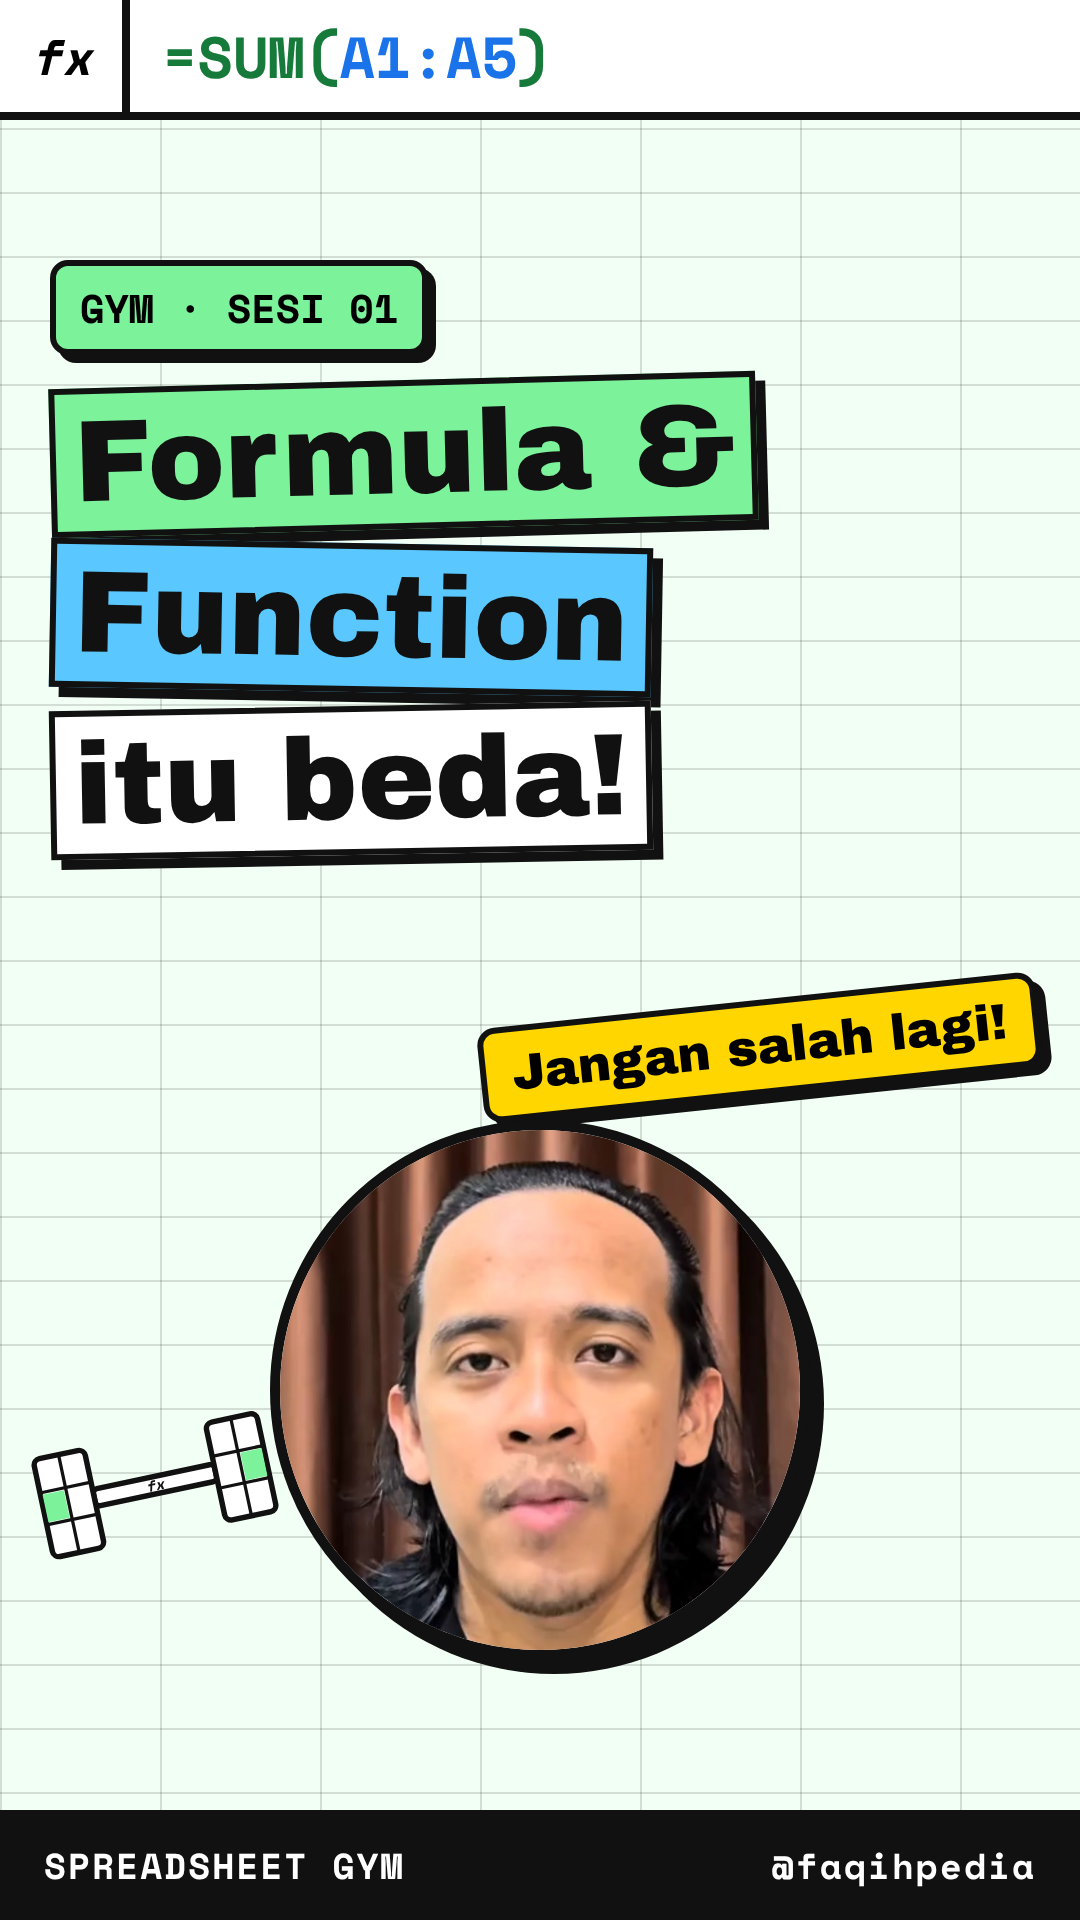
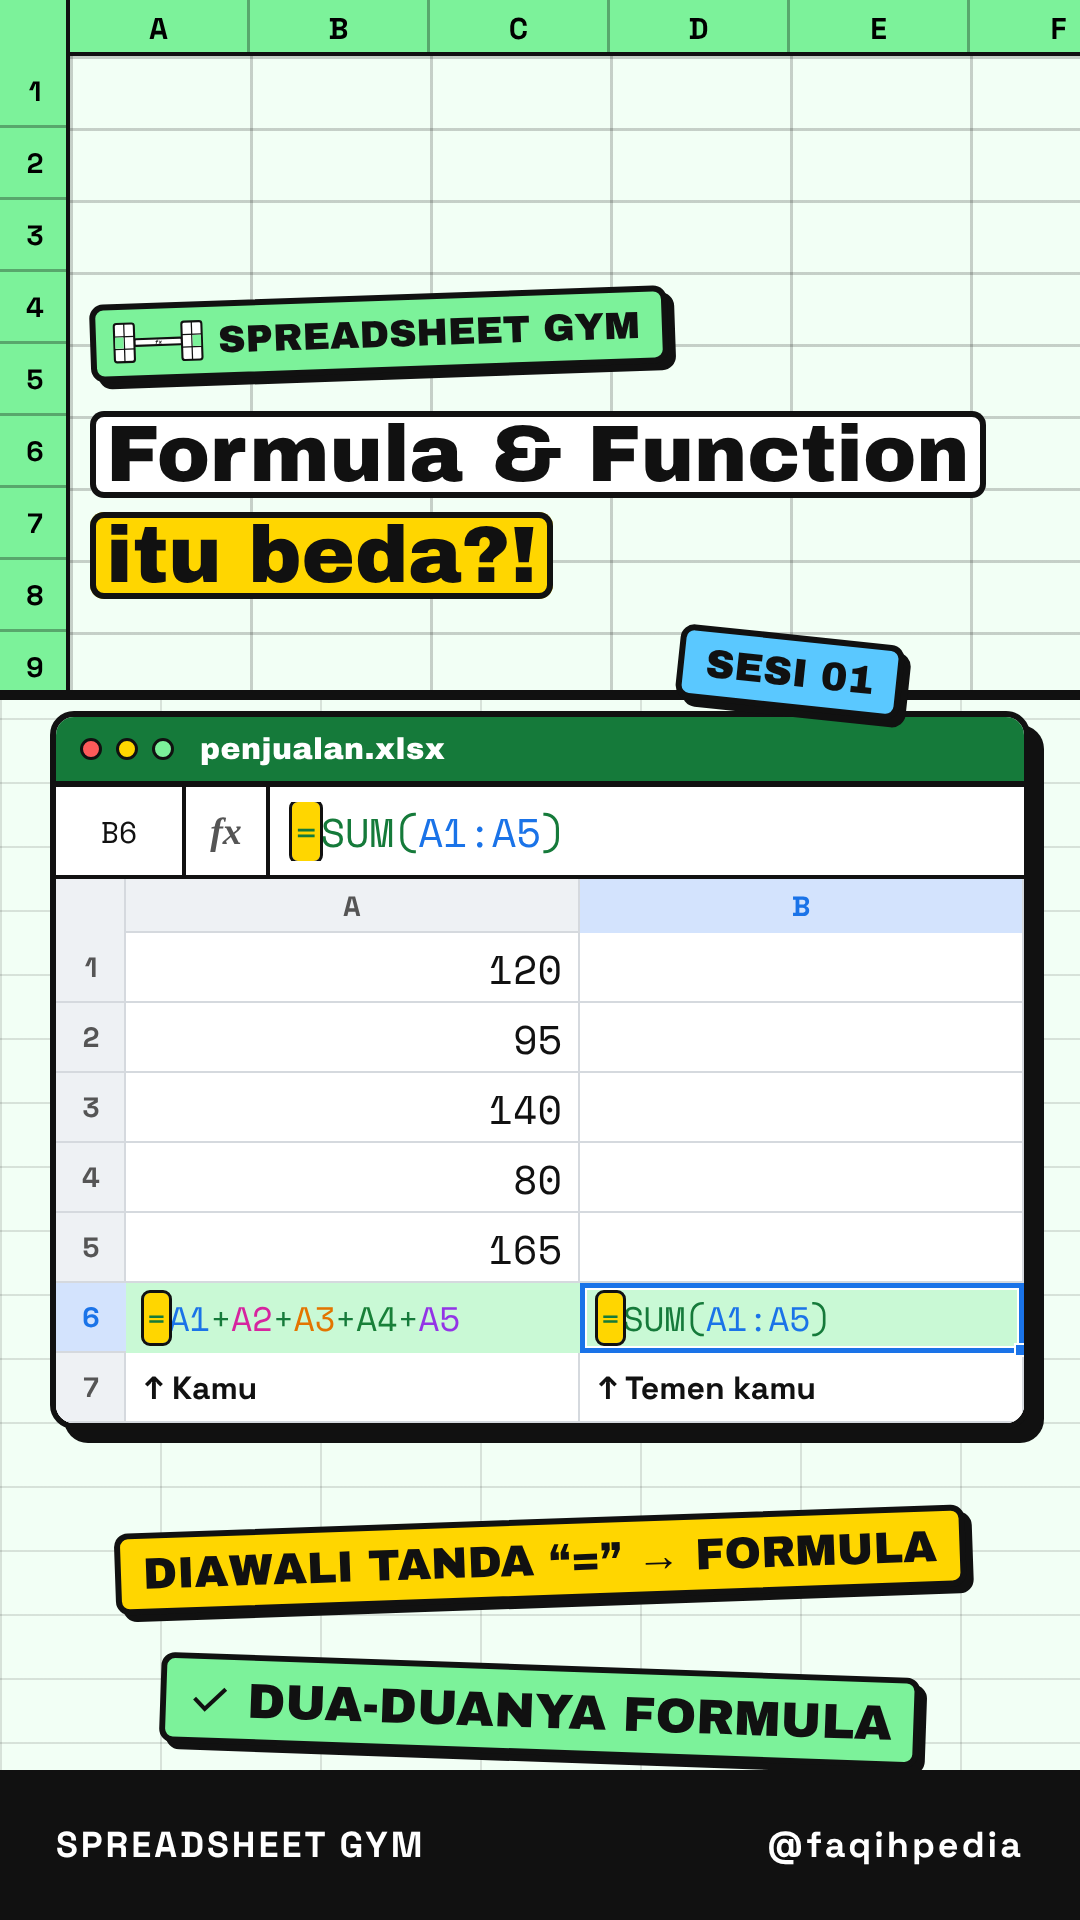
Spreadsheet Gym: thumbnail in the TRIMS cover standard, no face
Claude-Session: https://claude.ai/code/session_018xRo3ZmD22FHxxpmWKTbyx

diff --git a/spreadsheet-gym-formula-vs-function/src/Thumbnail.tsx b/spreadsheet-gym-formula-vs-function/src/Thumbnail.tsx
@@ -1,66 +1,97 @@
 import React from 'react';
 import { AbsoluteFill, Img, staticFile } from 'remotion';
+import { At, Box, Sticker } from './components';
 import { Barbell } from './scenes';
-import { Fx } from './Sheet';
-import { BORDER, C, EPISODE_LABEL, HEAD, MAIN_FORMULA, MONO, shadow } from './theme';
+import { BORDER, BODY, C, EPISODE_LABEL, HEAD } from './theme';
 
 /*
- * Reels / TikTok cover, laid out like the Spreadsheet Gym cover in
- * brand/segment-kit.html: formula bar on top, segment chip top-left, a title
- * of at most 6 words in the top third, a tilted sticker, the face centered
- * low, and the black @faqihpedia strip. Title and face stay inside the
- * centered 3:4 area (y 240–1680) that the Instagram profile grid shows.
+ * Cover, same rules as the TRIMS covers (trims-eps2-claude/src/Thumbnail.tsx
+ * on claude/awesome-hawking-b9e871), in the Spreadsheet Gym identity:
+ *  - segment motif on top (a spreadsheet: column letters, row numbers, cell grid),
+ *    segment label + logo top-left tilted -2°, a short title (5 words)
+ *  - a real frame of the video across the bottom half; no face in this segment,
+ *    so it's the practice sheet at "Jadi, dua-duanya formula!" (31.6 s)
+ *  - a tilted card on the panel edge (episode number, plate blue)
+ *  - black series strip at the bottom
  */
-export const Thumbnail: React.FC = () => (
-  <AbsoluteFill style={{ background: C.bg, overflow: 'hidden' }}>
-    {/* cell grid */}
-    <AbsoluteFill
-      style={{
-        backgroundImage: 'linear-gradient(90deg, rgba(17,17,17,.14) 2px, transparent 2px), linear-gradient(rgba(17,17,17,.14) 2px, transparent 2px)',
-        backgroundSize: '160px 64px',
-      }}
-    />
-    {/* formula bar */}
-    <div style={{ position: 'absolute', left: 0, top: 0, width: 1080, height: 120, background: C.white, borderBottom: `${BORDER + 2}px solid ${C.ink}`, display: 'flex' }}>
-      <div style={{ width: 130, display: 'flex', alignItems: 'center', justifyContent: 'center', borderRight: `${BORDER + 2}px solid ${C.ink}`, fontFamily: MONO, fontStyle: 'italic', fontWeight: 700, fontSize: 50 }}>fx</div>
-      <div style={{ display: 'flex', alignItems: 'center', padding: '0 32px', fontFamily: MONO, fontWeight: 700, fontSize: 58 }}>
-        <Fx text={MAIN_FORMULA} />
-      </div>
-    </div>
-    {/* segment chip */}
-    <div style={{ position: 'absolute', left: 50, top: 260, background: C.green, border: `${BORDER}px solid ${C.ink}`, borderRadius: 18, boxShadow: shadow(8), padding: '12px 24px', fontFamily: MONO, fontWeight: 700, fontSize: 40 }}>
-      GYM · {EPISODE_LABEL}
-    </div>
-    {/* title: max 6 words */}
-    <div style={{ position: 'absolute', left: 50, right: 50, top: 380, fontFamily: HEAD, fontSize: 116, lineHeight: 1.18, color: C.ink }}>
-      {['Formula &', 'Function', 'itu beda!'].map((l, i) => (
-        <div key={l}>
-          <span
-            style={{
-              background: i === 0 ? C.green : i === 1 ? C.blue : C.white,
-              border: `${BORDER}px solid ${C.ink}`, boxShadow: shadow(10), padding: '0 18px', display: 'inline-block',
-              transform: `rotate(${[-1.5, 1, -1][i]}deg)`, marginBottom: 14,
-            }}
-          >
-            {l}
-          </span>
+const SAFE = { left: 60, right: 940, top: 285, bottom: 1500 };
+
+const mark: React.CSSProperties = {
+  background: C.white, boxShadow: `inset 0 0 0 6px ${C.ink}`, borderRadius: 14, padding: '0 16px',
+  boxDecorationBreak: 'clone', WebkitBoxDecorationBreak: 'clone',
+};
+
+const PHOTO_TOP = 690;
+const FRAME_Y = 430; // first row of the video frame shown at the panel top
+const STRIP = 150;
+
+/** spreadsheet motif: header row with column letters, row numbers, cell grid */
+const SheetMotif: React.FC = () => {
+  const colW = 180;
+  const rowH = 72;
+  const headH = 56;
+  const numW = 70;
+  return (
+    <AbsoluteFill>
+      <AbsoluteFill
+        style={{
+          background: C.bg,
+          backgroundImage: 'linear-gradient(90deg, rgba(17,17,17,.2) 3px, transparent 3px), linear-gradient(rgba(17,17,17,.2) 3px, transparent 3px)',
+          backgroundSize: `${colW}px ${rowH}px`,
+          backgroundPosition: `${numW}px ${headH}px`,
+        }}
+      />
+      <div style={{ position: 'absolute', left: 0, top: 0, right: 0, height: headH, background: C.green, borderBottom: `4px solid ${C.ink}` }} />
+      {'ABCDEF'.split('').map((l, i) => (
+        <div key={l} style={{ position: 'absolute', left: numW + i * colW, top: 0, width: colW, height: headH, display: 'flex', alignItems: 'center', justifyContent: 'center', fontFamily: BODY, fontWeight: 700, fontSize: 30, borderRight: `3px solid ${C.ink}55` }}>
+          {l}
         </div>
       ))}
+      <div style={{ position: 'absolute', left: 0, top: 0, bottom: 0, width: numW, background: C.green, borderRight: `4px solid ${C.ink}` }} />
+      {Array.from({ length: 9 }, (_, r) => (
+        <div key={r} style={{ position: 'absolute', left: 0, top: headH + r * rowH, width: numW, height: rowH, display: 'flex', alignItems: 'center', justifyContent: 'center', fontFamily: BODY, fontWeight: 700, fontSize: 28, borderBottom: `3px solid ${C.ink}55` }}>
+          {r + 1}
+        </div>
+      ))}
+    </AbsoluteFill>
+  );
+};
+
+export const Thumbnail: React.FC = () => (
+  <AbsoluteFill style={{ background: C.bg, overflow: 'hidden' }}>
+    <SheetMotif />
+
+    {/* real video frame, bleeding off the bottom */}
+    <div style={{ position: 'absolute', left: 0, right: 0, top: PHOTO_TOP, bottom: 0, overflow: 'hidden', borderTop: `${BORDER + 4}px solid ${C.ink}`, background: C.bg }}>
+      <Img src={staticFile('thumb-frame.png')} style={{ position: 'absolute', left: 0, top: -FRAME_Y, width: 1080, height: 1920 }} />
     </div>
-    {/* tilted sticker */}
-    <div style={{ position: 'absolute', right: 40, top: 1000, transform: 'rotate(-6deg)', background: C.yellow, border: `${BORDER}px solid ${C.ink}`, borderRadius: 18, boxShadow: shadow(9), padding: '14px 26px', fontFamily: HEAD, fontSize: 50 }}>
-      Jangan salah lagi!
+
+    {/* segment label, top-left */}
+    <div style={{ position: 'absolute', left: SAFE.left + 30, top: SAFE.top + 10, transform: 'rotate(-2deg)' }}>
+      <Box bg={C.green} pad="8px 22px 8px 14px" radius={14} sh={7} style={{ display: 'flex', alignItems: 'center', gap: 12, fontFamily: HEAD, fontSize: 38, whiteSpace: 'nowrap' }}>
+        <Barbell w={96} />
+        SPREADSHEET GYM
+      </Box>
     </div>
-    {/* face */}
-    <div style={{ position: 'absolute', left: 540 - 270, top: 1120, width: 540, height: 540, borderRadius: '50%', border: `${BORDER + 4}px solid ${C.ink}`, boxShadow: shadow(14), overflow: 'hidden', background: C.white }}>
-      <Img src={staticFile('face.jpg')} style={{ width: '100%', height: '100%', objectFit: 'cover' }} />
+
+    {/* title: 5 words */}
+    <div style={{ position: 'absolute', left: SAFE.left + 30, top: 405, fontFamily: HEAD, fontSize: 80, lineHeight: 1.26, color: C.ink, whiteSpace: 'nowrap' }}>
+      <span style={mark}>Formula &amp; Function</span>
+      <br />
+      <span style={{ ...mark, background: C.yellow }}>itu beda?!</span>
     </div>
-    {/* barbell next to the face */}
-    <div style={{ position: 'absolute', left: 30, top: 1420, transform: 'rotate(-12deg)' }}>
-      <Barbell w={250} />
-    </div>
-    {/* bottom strip */}
-    <div style={{ position: 'absolute', left: 0, bottom: 0, width: 1080, height: 110, background: C.ink, color: C.white, display: 'flex', alignItems: 'center', justifyContent: 'space-between', padding: '0 44px', boxSizing: 'border-box', fontFamily: MONO, fontWeight: 700, fontSize: 36, letterSpacing: 2 }}>
+
+    {/* card on the panel edge */}
+    <At x={790} y={672} r={6}>
+      <Sticker bg={C.blue} size={40}>{EPISODE_LABEL}</Sticker>
+    </At>
+
+    {/* series strip */}
+    <div style={{
+      position: 'absolute', left: 0, right: 0, bottom: 0, height: STRIP, background: C.ink, color: C.white,
+      display: 'flex', alignItems: 'center', justifyContent: 'space-between', padding: '0 56px',
+      fontFamily: BODY, fontWeight: 700, fontSize: 36, letterSpacing: 3,
+    }}>
       <span>SPREADSHEET GYM</span>
       <span>@faqihpedia</span>
     </div>

diff --git a/README.md b/README.md
@@ -113,6 +113,6 @@ python3 scripts/whistle.py public/sfx/whistle.wav                   # optional: 
 npm run render -- --browser-executable=<chrome-headless-shell>
 ```
 
-The cover is `thumbnail.png`, rendered from the `Thumbnail` still (`src/Thumbnail.tsx`, face from Faqihpedia #22 in `public/face.jpg`): `npx remotion still Thumbnail thumbnail.png`. Title and face stay inside the centered 3:4 area the Instagram profile grid shows.
+The cover is `thumbnail.png`, rendered from the `Thumbnail` still (`src/Thumbnail.tsx`) with `npx remotion still Thumbnail thumbnail.png`. It follows the TRIMS cover rules (`trims-eps2-claude/src/Thumbnail.tsx`): segment motif and label on top, a 5-word title, a tilted card on the panel edge, a real video frame across the bottom half, and the black series strip. This segment has no face, so the frame is the practice sheet at 31.6 s (`public/thumb-frame.png`).
 
 Scene timing is cued to words in the VO (`cue(part, word)` in `src/theme.ts`), so the edit follows a regenerated VO without manual retiming. The episode number, weight and main formula are `EPISODE` and `MAIN_FORMULA` in `src/theme.ts`.
